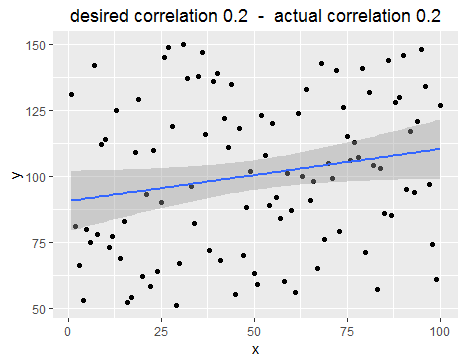
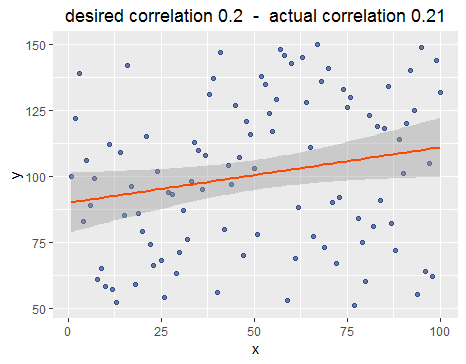
Updated examples and credit in README.

diff --git a/README.md b/README.md
@@ -11,6 +11,10 @@ devtools::install_github("einGlasRotwein/cmonCorr")
 library("cmonCorr")
 ```
 
+# Credit
+
+Internal functions for input validation adapted from [prmisc](https://github.com/m-Py/prmisc) by [Martin Papenberg](https://github.com/m-Py).
+
 # Examples
 
 ## sim_cor
@@ -30,8 +34,8 @@ example1 <- sim_cor(vector1 = vec1, vector2 = vec2, r = .2, shuffles = 100)
 library(tidyverse)
 example1$data %>% 
   ggplot(aes(x = x, y = y)) +
-  geom_point() +
-  geom_smooth(method = "lm") +
+  geom_point(colour = "#0c2c76", alpha = .6) +
+  geom_smooth(method = "lm", colour = "#ff4600") +
   labs(title = paste("desired correlation", example1$desired_correlation, " - ",
                      "actual correlation", round(example1$actual_correlation, 2))) +
   theme(plot.title = element_text(hjust = .5))
@@ -47,8 +51,8 @@ example2 <- sim_cor(vector1 = vec1, r = .42, shuffles = 1000)
 library(tidyverse)
 example2$data %>% 
   ggplot(aes(x = x, y = y)) +
-  geom_point() +
-  geom_smooth(method = "lm") +
+  geom_point(colour = "#0c2c76", alpha = .6) +
+  geom_smooth(method = "lm", colour = "#ff4600") +
   labs(title = paste("desired correlation", example2$desired_correlation, " - ",
                      "actual correlation", round(example2$actual_correlation, 2))) +
   theme(plot.title = element_text(hjust = .5))
@@ -61,13 +65,13 @@ example2$data %>%
 Takes parameters for one or two vectors as input. If only parameters for one are provided, the second vector is created from the parameters of the first one.
 
 ```R
-example3 <- sim_cor(N = 50, MW1 = 40, SD1 = 4, MW2 = 40, SD2 = 10, r = .81, shuffles = 1000)
+example3 <- sim_cor(N = 50, M1 = 40, SD1 = 4, M2 = 40, SD2 = 10, r = .81, shuffles = 2000)
 
 library(tidyverse)
 example3$data %>% 
   ggplot(aes(x = x, y = y)) +
-  geom_point() +
-  geom_smooth(method = "lm") +
+  geom_point(colour = "#0c2c76", alpha = .6) +
+  geom_smooth(method = "lm", colour = "#ff4600") +
   labs(title = paste("desired correlation", example3$desired_correlation, " - ",
                      "actual correlation", round(example3$actual_correlation, 2))) +
   theme(plot.title = element_text(hjust = .5))
@@ -76,13 +80,13 @@ example3$data %>%
 ![](https://raw.githubusercontent.com/einGlasRotwein/cmonCorr/master/examples/example3.png)
 
 ```R
-example4 <- sim_cor(N = 20, MW1 = 40, SD1 = 4, r = -1, shuffles = 1000)
+example4 <- sim_cor(N = 20, M1 = 40, SD1 = 4, r = -1, shuffles = 50)
 
 library(tidyverse)
 example4$data %>% 
   ggplot(aes(x = x, y = y)) +
-  geom_point() +
-  geom_smooth(method = "lm") +
+  geom_point(colour = "#0c2c76", alpha = .6) +
+  geom_smooth(method = "lm", colour = "#ff4600") +
   labs(title = paste("desired correlation", example4$desired_correlation, " - ",
                      "actual correlation", round(example4$actual_correlation, 2))) +
   theme(plot.title = element_text(hjust = .5))
